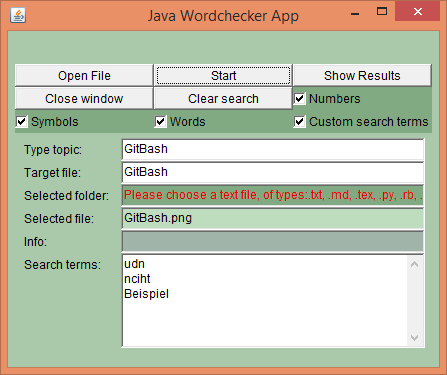
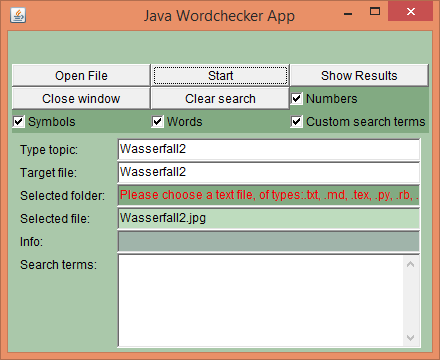
make checkboxes work, minor tweaks and fixes

diff --git a/src/app/UserDialog.java b/src/app/UserDialog.java
@@ -68,7 +68,7 @@ public class UserDialog {
     private void makeCheckboxGroup() {
         mode = 15;
 		   
-        chkNumbers = new ToggleFunction("Symbols", this, CountWords.switchMode.c_Numbers.getMode());
+        chkNumbers = new ToggleFunction("Numbers", this, CountWords.switchMode.c_Numbers.getMode());
         chkSymbols = new ToggleFunction("Symbols", this, CountWords.switchMode.c_Symbols.getMode());
         chkWords = new ToggleFunction("Words", this, CountWords.switchMode.c_Words.getMode());
         chkUserTerms = new ToggleFunction("Custom search terms", this, CountWords.switchMode.c_UserTerms.getMode());
@@ -311,7 +311,7 @@ public class UserDialog {
                     
                     EvaluateText etx = new EvaluateText(str, mode);
                     
-                    Writeinfile WordPlace = new Writeinfile(selTargetFile, field_topic.getText());
+                    Writeinfile WordPlace = new Writeinfile(selTargetFile, field_topic.getText(), mode);
                     
                     try{etx.eTextToolBox(selFile);}
                     catch(Exception exc) {System.out.println("EtextToolbox went wrong.");}
